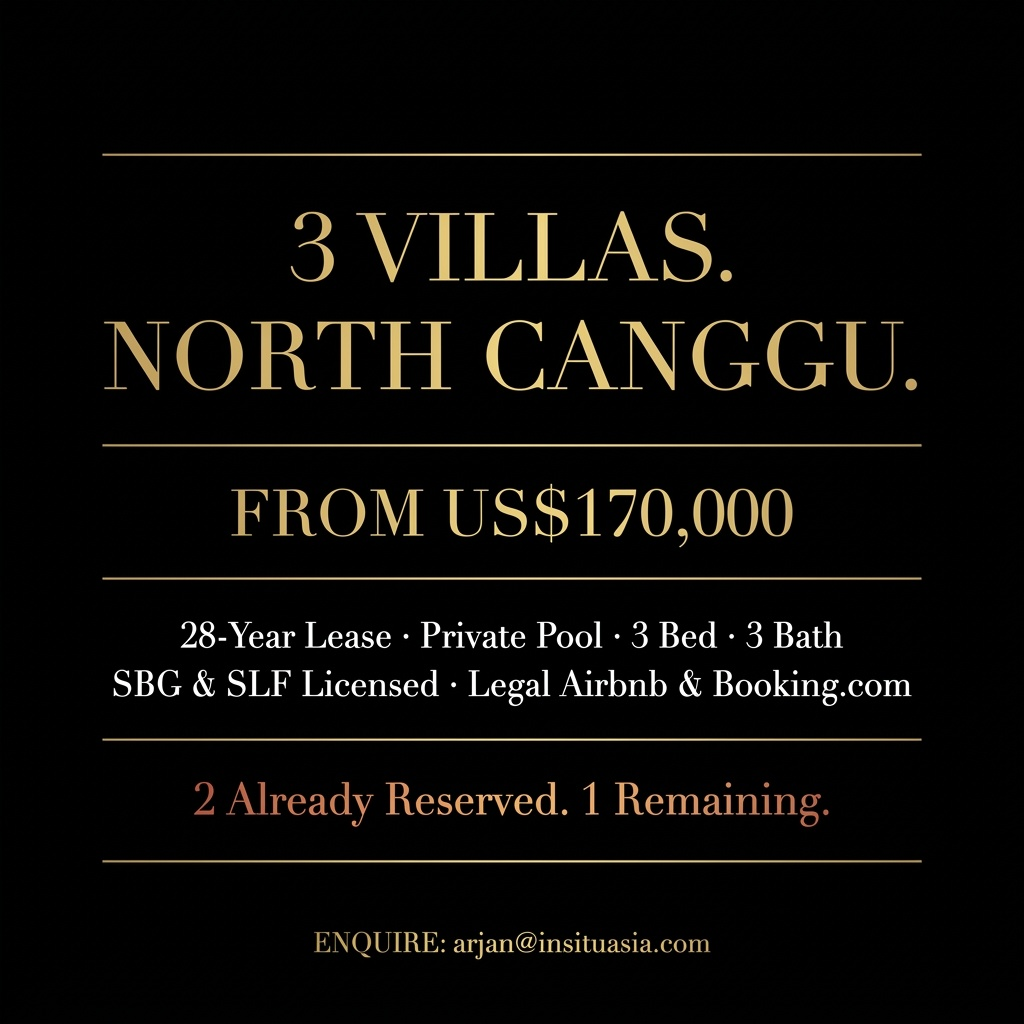
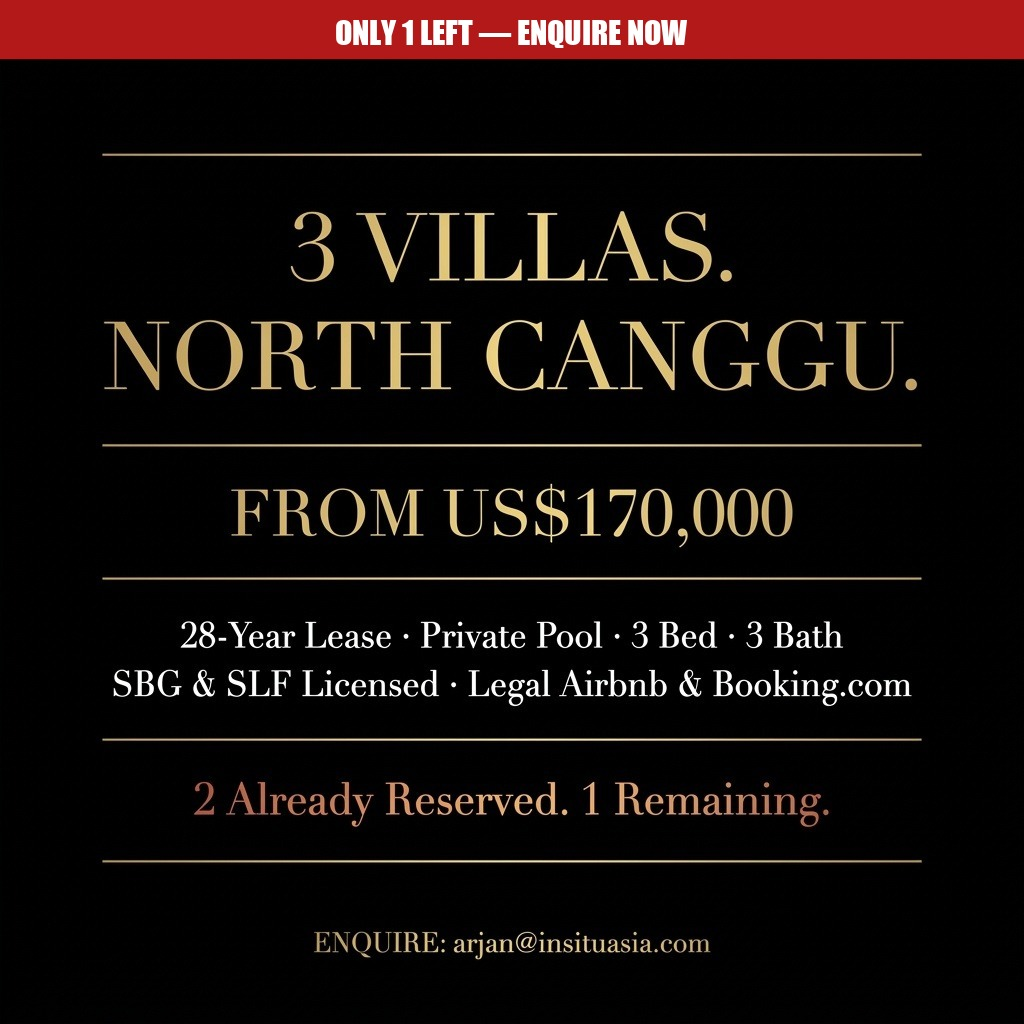
feat: add scroll-stopping headlines to all 7 static ad creatives
- Large Impact font headlines at top of each image
- Gold subheadlines with emotional hooks
- Opaque black bars mask old AI-burned-in text at bottom
- Clean new captions with price, specs, location
- Currency fixed to just $ (no AU/US prefix)
- Red urgency bars on regulation + scarcity creatives

Changed region(s): [[0.0, 0.0, 1.0, 0.0625]]

diff --git a/add-scroll-stoppers.py b/add-scroll-stoppers.py
@@ -1,0 +1,292 @@
+"""
+add-scroll-stoppers.py — Add large, bold, scroll-stopping headline banners
+to all 7 static ad creatives. Masks old AI-burned-in text first.
+"""
+
+from PIL import Image, ImageDraw, ImageFont
+from pathlib import Path
+
+OUT_DIR = Path(__file__).parent / "ad-creatives"
+
+FONT_BOLD = "C:/Windows/Fonts/segoeuib.ttf"
+FONT_REGULAR = "C:/Windows/Fonts/segoeui.ttf"
+FONT_IMPACT = "C:/Windows/Fonts/impact.ttf"
+
+GOLD = (176, 141, 87)
+WHITE = (255, 255, 255)
+
+
+def load_font(path, size):
+    try:
+        return ImageFont.truetype(path, size)
+    except:
+        return ImageFont.load_default()
+
+
+def text_size(draw, text, font):
+    bbox = draw.textbbox((0, 0), text, font=font)
+    return bbox[2] - bbox[0], bbox[3] - bbox[1]
+
+
+def draw_text_with_outline(draw, pos, text, font, fill=WHITE, outline_color=(0,0,0), outline_width=4):
+    """Draw text with thick outline for max readability over any background."""
+    x, y = pos
+    for dx in range(-outline_width, outline_width + 1):
+        for dy in range(-outline_width, outline_width + 1):
+            if dx*dx + dy*dy <= outline_width*outline_width:
+                draw.text((x + dx, y + dy), text, font=font, fill=outline_color)
+    draw.text((x, y), text, font=font, fill=fill)
+
+
+def draw_centered(draw, y, text, font, fill=WHITE, img_width=1424, outline=True, outline_width=4):
+    """Draw centered text with outline."""
+    tw, _ = text_size(draw, text, font)
+    x = (img_width - tw) // 2
+    if outline:
+        draw_text_with_outline(draw, (x, y), text, font, fill, outline_width=outline_width)
+    else:
+        draw.text((x, y), text, font=font, fill=fill)
+
+
+def add_gradient_bar(img, y_start, height, opacity=220, direction="top"):
+    """Add a gradient dark bar for text readability."""
+    overlay = Image.new("RGBA", img.size, (0, 0, 0, 0))
+    d = ImageDraw.Draw(overlay)
+    for i in range(height):
+        if direction == "top":
+            # Strongest at top, fading down
+            ratio = 1 - (i / height)
+        else:
+            # Strongest at bottom, fading up
+            ratio = i / height
+        alpha = int(opacity * ratio ** 0.6)
+        d.line([(0, y_start + i), (img.width, y_start + i)], fill=(0, 0, 0, alpha))
+    return Image.alpha_composite(img.convert("RGBA"), overlay)
+
+
+def add_solid_bar(img, y_start, height, color=(0,0,0), opacity=255):
+    """Add a fully opaque bar."""
+    overlay = Image.new("RGBA", img.size, (0, 0, 0, 0))
+    d = ImageDraw.Draw(overlay)
+    d.rectangle([(0, y_start), (img.width, y_start + height)], fill=(*color, opacity))
+    return Image.alpha_composite(img.convert("RGBA"), overlay)
+
+
+# ════════════════════════════════════════════
+# CREATIVE 1: COMPARISON (1424x752)
+# Old burned-in text: bottom ~180px ("SYDNEY — AU$175,000" etc)
+# ════════════════════════════════════════════
+def process_creative_1():
+    print("  Creative 1: Comparison...")
+    img = Image.open(OUT_DIR / "creative-1-comparison.jpg").convert("RGBA")
+    w, h = img.size
+
+    # MASK old bottom text with fully opaque black bar
+    img = add_solid_bar(img, h - 220, 220, opacity=255)
+    # Top gradient for headline
+    img = add_gradient_bar(img, 0, 150, opacity=230, direction="top")
+
+    draw = ImageDraw.Draw(img)
+
+    # TOP: Scroll-stopping headline
+    font_big = load_font(FONT_IMPACT, 72)
+    font_sub = load_font(FONT_BOLD, 32)
+    draw_centered(draw, 14, "SAME PRICE. DIFFERENT LIFE.", font_big, WHITE, w)
+    draw_centered(draw, 96, "What does $175,000 actually buy you?", font_sub, GOLD, w, outline_width=3)
+
+    # BOTTOM LEFT: Sydney
+    font_price = load_font(FONT_BOLD, 50)
+    font_detail = load_font(FONT_REGULAR, 26)
+    lx = 60
+    draw_text_with_outline(draw, (lx, h - 170), "$175,000 — Sydney", font_price, WHITE)
+    draw_text_with_outline(draw, (lx, h - 110), "1 bed. No pool. No garden.", font_detail, (220,220,220), outline_width=3)
+
+    # BOTTOM RIGHT: Bali
+    rx = w // 2 + 60
+    draw_text_with_outline(draw, (rx, h - 170), "$175,000 — Bali", font_price, WHITE)
+    draw_text_with_outline(draw, (rx, h - 110), "3 bed. 3 bath. Private pool.", font_detail, (220,220,220), outline_width=3)
+    draw_text_with_outline(draw, (rx, h - 77), "North Canggu.", font_detail, GOLD, outline_width=3)
+
+    img.convert("RGB").save(OUT_DIR / "creative-1-comparison.jpg", quality=92)
+    print("    Done")
+
+
+# ════════════════════════════════════════════
+# CREATIVE 2: REGULATION (1024x1024)
+# Already text-heavy on dark bg — just add urgency banner
+# ════════════════════════════════════════════
+def process_creative_2():
+    print("  Creative 2: Regulation...")
+    img = Image.open(OUT_DIR / "creative-2-regulation.jpg").convert("RGBA")
+    w = img.width
+
+    # Red urgency bar at top
+    img = add_solid_bar(img, 0, 65, color=(180, 25, 25), opacity=240)
+
+    draw = ImageDraw.Draw(img)
+    font_urgency = load_font(FONT_IMPACT, 38)
+    draw_centered(draw, 12, "DEADLINE: MARCH 31 — 18 DAYS LEFT", font_urgency, WHITE, w, outline=False)
+
+    img.convert("RGB").save(OUT_DIR / "creative-2-regulation.jpg", quality=92)
+    print("    Done")
+
+
+# ════════════════════════════════════════════
+# CREATIVE 3: FIFO (1424x752)
+# Old burned-in text: bottom ~130px
+# ════════════════════════════════════════════
+def process_creative_3():
+    print("  Creative 3: FIFO...")
+    img = Image.open(OUT_DIR / "creative-3-fifo.jpg").convert("RGBA")
+    w, h = img.size
+
+    # MASK old bottom text — fully opaque
+    img = add_solid_bar(img, h - 185, 185, opacity=255)
+    # Top gradient
+    img = add_gradient_bar(img, 0, 160, opacity=240, direction="top")
+
+    draw = ImageDraw.Draw(img)
+
+    # TOP: Scroll-stopper
+    font_big = load_font(FONT_IMPACT, 68)
+    font_sub = load_font(FONT_BOLD, 30)
+    draw_centered(draw, 14, "2 WEEKS ON. 2 WEEKS OFF.", font_big, WHITE, w)
+    draw_centered(draw, 92, "What are you doing with yours?", font_sub, GOLD, w, outline_width=3)
+
+    # BOTTOM
+    font_main = load_font(FONT_BOLD, 48)
+    font_price = load_font(FONT_BOLD, 28)
+    draw_centered(draw, h - 140, "Same budget. Different life.", font_main, WHITE, w)
+    draw_centered(draw, h - 80, "3 bed villa from $170,000 — North Canggu, Bali", font_price, GOLD, w, outline_width=3)
+
+    img.convert("RGB").save(OUT_DIR / "creative-3-fifo.jpg", quality=92)
+    print("    Done")
+
+
+# ════════════════════════════════════════════
+# CREATIVE 4: RETIREMENT (1424x752)
+# Old burned-in text: bottom ~140px
+# ════════════════════════════════════════════
+def process_creative_4():
+    print("  Creative 4: Retirement...")
+    img = Image.open(OUT_DIR / "creative-4-retirement.jpg").convert("RGBA")
+    w, h = img.size
+
+    # MASK old bottom text — fully opaque, extends higher
+    img = add_solid_bar(img, h - 200, 200, opacity=255)
+    # Top gradient
+    img = add_gradient_bar(img, 0, 150, opacity=230, direction="top")
+
+    draw = ImageDraw.Draw(img)
+
+    # TOP
+    font_big = load_font(FONT_IMPACT, 54)
+    font_sub = load_font(FONT_BOLD, 30)
+    draw_centered(draw, 14, "YOUR SUPER WAS SUPPOSED TO BE ENOUGH.", font_big, WHITE, w)
+    draw_centered(draw, 78, "In Bali, it still is.", font_sub, GOLD, w, outline_width=3)
+
+    # BOTTOM
+    font_main = load_font(FONT_BOLD, 46)
+    font_detail = load_font(FONT_BOLD, 26)
+    draw_centered(draw, h - 150, "3 bed villa from $170,000", font_main, WHITE, w)
+    draw_centered(draw, h - 95, "Private pool  ·  28-year lease  ·  North Canggu", font_detail, GOLD, w, outline_width=3)
+
+    img.convert("RGB").save(OUT_DIR / "creative-4-retirement.jpg", quality=92)
+    print("    Done")
+
+
+# ════════════════════════════════════════════
+# CREATIVE 5: SCARCITY (1024x1024)
+# Already text on black — add urgency bar
+# ════════════════════════════════════════════
+def process_creative_5():
+    print("  Creative 5: Scarcity...")
+    img = Image.open(OUT_DIR / "creative-5-scarcity.jpg").convert("RGBA")
+    w = img.width
+
+    img = add_solid_bar(img, 0, 58, color=(180, 25, 25), opacity=235)
+
+    draw = ImageDraw.Draw(img)
+    font_urgency = load_font(FONT_IMPACT, 32)
+    draw_centered(draw, 12, "ONLY 1 LEFT — ENQUIRE NOW", font_urgency, WHITE, w, outline=False)
+
+    img.convert("RGB").save(OUT_DIR / "creative-5-scarcity.jpg", quality=92)
+    print("    Done")
+
+
+# ════════════════════════════════════════════
+# CREATIVE 6: DIGITAL NOMAD (1424x752)
+# Old burned-in text: bottom ~110px and some large text center-bottom
+# ════════════════════════════════════════════
+def process_creative_6():
+    print("  Creative 6: Digital Nomad...")
+    img = Image.open(OUT_DIR / "creative-6-digital-nomad.jpg").convert("RGBA")
+    w, h = img.size
+
+    # MASK old bottom text — fully opaque, bigger area
+    img = add_solid_bar(img, h - 200, 200, opacity=255)
+    # Top gradient
+    img = add_gradient_bar(img, 0, 150, opacity=235, direction="top")
+
+    draw = ImageDraw.Draw(img)
+
+    # TOP
+    font_big = load_font(FONT_IMPACT, 62)
+    font_sub = load_font(FONT_BOLD, 28)
+    draw_centered(draw, 12, "YOUR OFFICE. YOUR POOL. YOUR VILLA.", font_big, WHITE, w)
+    draw_centered(draw, 84, "Stop renting someone else's dream.", font_sub, GOLD, w, outline_width=3)
+
+    # BOTTOM
+    font_main = load_font(FONT_BOLD, 42)
+    font_detail = load_font(FONT_BOLD, 24)
+    draw_centered(draw, h - 150, "Own in North Canggu from $170,000", font_main, WHITE, w)
+    draw_centered(draw, h - 100, "28-year lease  ·  Licensed for Airbnb  ·  14 min to beach", font_detail, GOLD, w, outline_width=3)
+
+    img.convert("RGB").save(OUT_DIR / "creative-6-digital-nomad.jpg", quality=92)
+    print("    Done")
+
+
+# ════════════════════════════════════════════
+# CREATIVE 7: YOUNG FAMILY (1424x752)
+# Old burned-in text: center-bottom ~200px
+# ════════════════════════════════════════════
+def process_creative_7():
+    print("  Creative 7: Young Family...")
+    img = Image.open(OUT_DIR / "creative-7-young-family.jpg").convert("RGBA")
+    w, h = img.size
+
+    # MASK old bottom text — fully opaque, extends higher
+    img = add_solid_bar(img, h - 250, 250, opacity=255)
+    # Top gradient
+    img = add_gradient_bar(img, 0, 165, opacity=235, direction="top")
+
+    draw = ImageDraw.Draw(img)
+
+    # TOP
+    font_big = load_font(FONT_IMPACT, 52)
+    font_sub = load_font(FONT_BOLD, 30)
+    draw_centered(draw, 10, "THE CHILDHOOD YOU DREAMED", font_big, WHITE, w)
+    draw_centered(draw, 68, "OF GIVING THEM.", font_big, WHITE, w)
+    draw_centered(draw, 125, "Still possible. Just not in Australia.", font_sub, GOLD, w, outline_width=3)
+
+    # BOTTOM
+    font_main = load_font(FONT_BOLD, 46)
+    font_detail = load_font(FONT_BOLD, 26)
+    draw_centered(draw, h - 185, "3 bed villa from $170,000", font_main, WHITE, w)
+    draw_centered(draw, h - 130, "Private pool  ·  International school nearby", font_detail, GOLD, w, outline_width=3)
+    draw_centered(draw, h - 96, "North Canggu, Bali", font_detail, GOLD, w, outline_width=3)
+
+    img.convert("RGB").save(OUT_DIR / "creative-7-young-family.jpg", quality=92)
+    print("    Done")
+
+
+# ════════════════════════════════════════════
+print("\n  Adding scroll-stopping captions...")
+process_creative_1()
+process_creative_2()
+process_creative_3()
+process_creative_4()
+process_creative_5()
+process_creative_6()
+process_creative_7()
+print("\n  ALL DONE — 7 creatives with scroll-stopping headlines")
